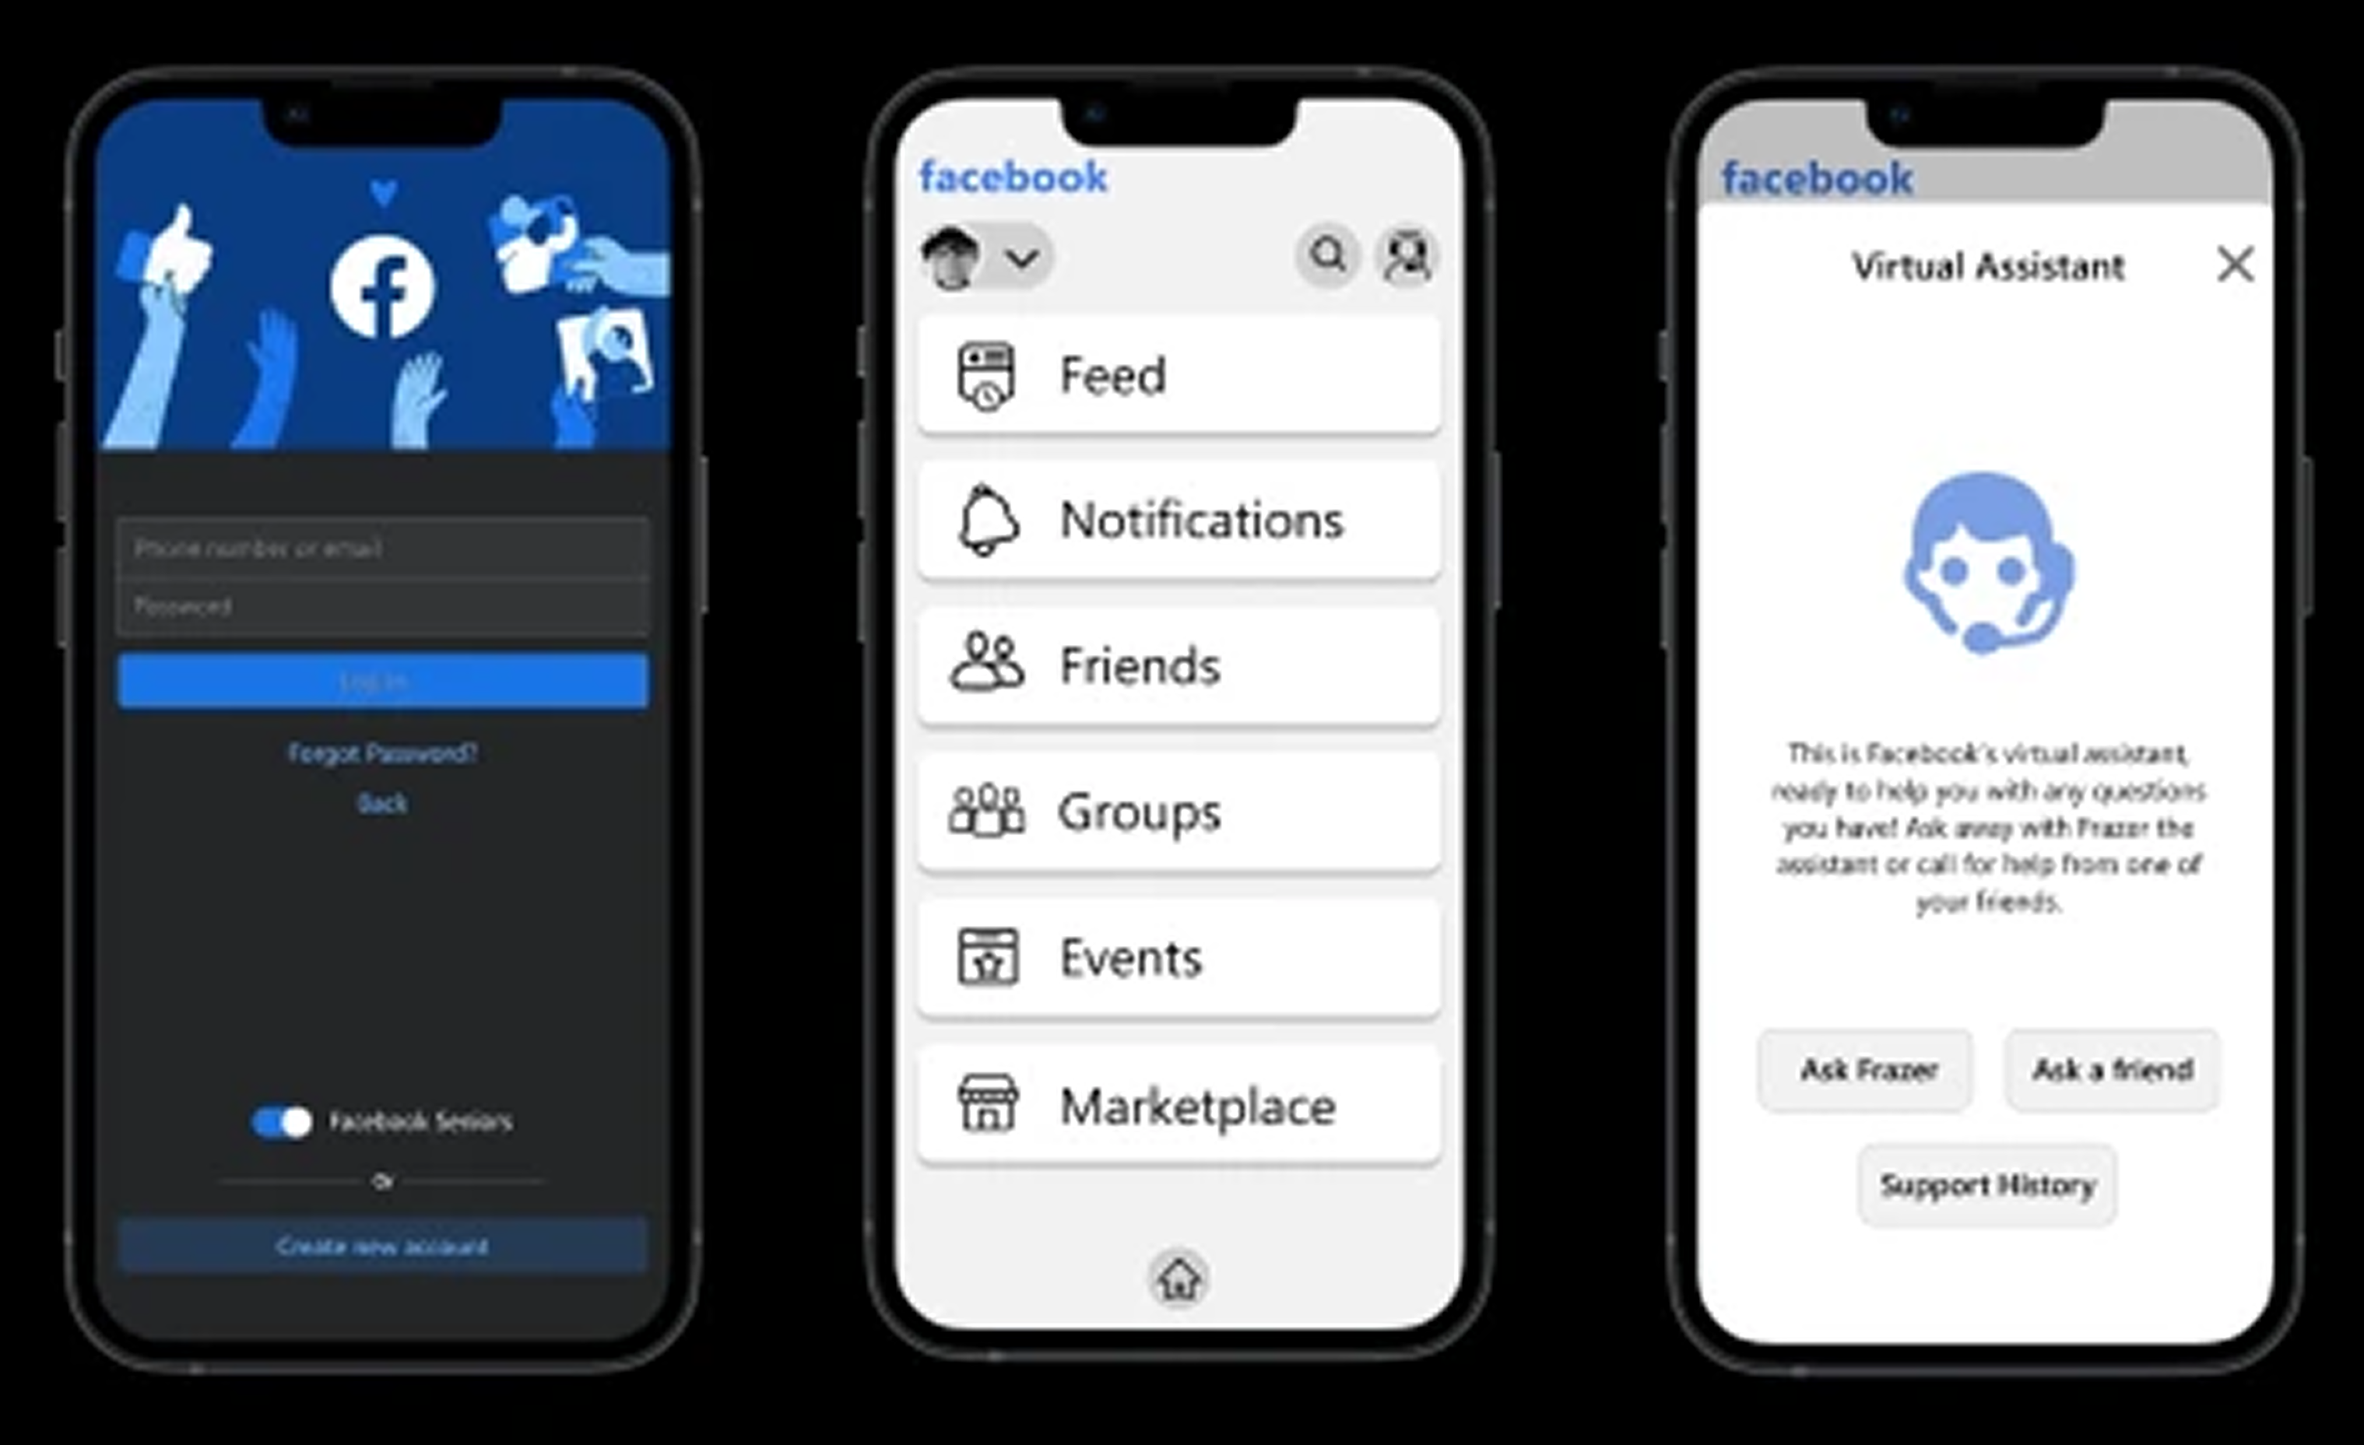
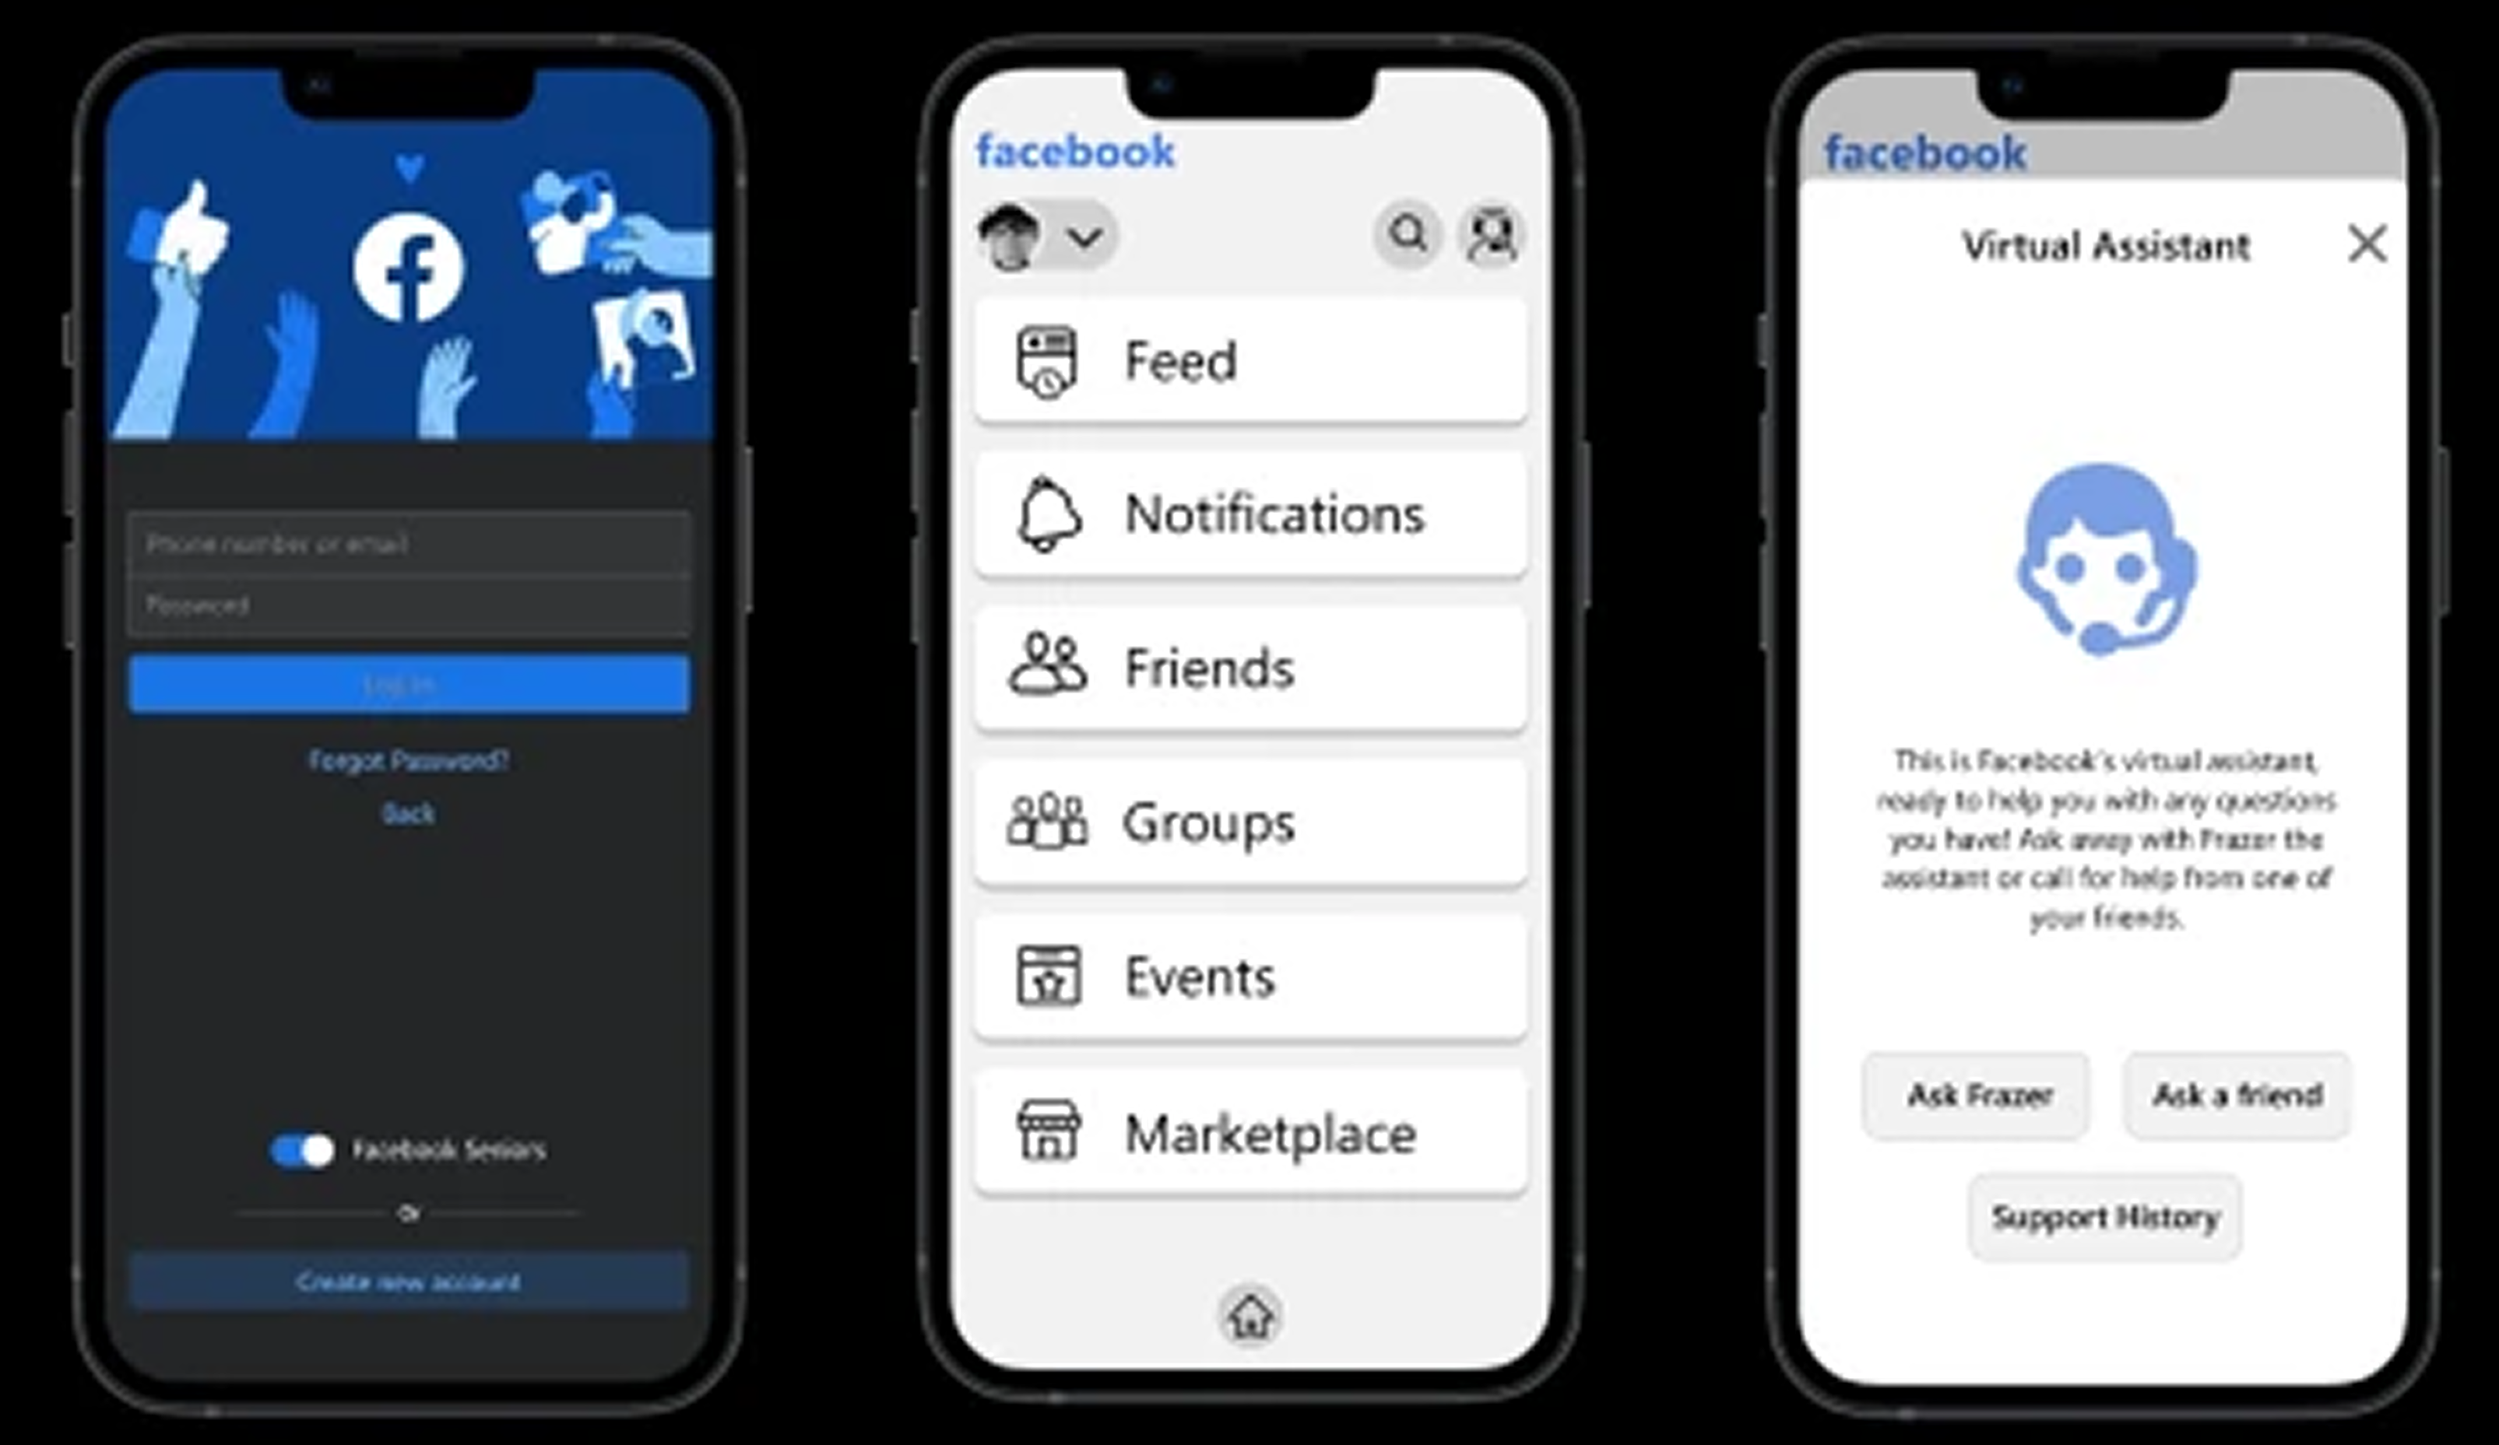
resized the other projects imgs

diff --git a/main/index.html b/main/index.html
@@ -463,18 +463,18 @@
         </div>
 
         <div class="item-role itemc">
-            <img src="https://ariellebeltran.github.io/portfolio/main/images/gripless-gauntlet.avif"
+            <img src="https://ariellebeltran.github.io/portfolio/main/images/gripless-gauntlet.png"
                 alt="Hand brace with built in toothbrush." width="100%" height="auto">
         </div>
 
         <div class="item-role itemd">
-            <img src="https://ariellebeltran.github.io/portfolio/main/images/moving-forward_presskit.avif"
+            <img src="https://ariellebeltran.github.io/portfolio/main/images/moving-forward_presskit.png"
                 alt="An email template and slide deck made for a non-profit called Moving Forward." width="100%"
                 height="auto">
         </div>
 
         <div class="item-role iteme">
-            <img src="https://ariellebeltran.github.io/portfolio/main/images/facebook-for-seniors.webp"
+            <img src="https://ariellebeltran.github.io/portfolio/main/images/facebook-for-seniors.png"
                 alt="A facebook prototype for seniors." width="100%" height="auto">
         </div>
 
